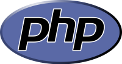
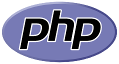
Update with Socrata experience; update bio; improve image quality

diff --git a/index.html b/index.html
@@ -11,146 +11,156 @@
 </head>
 <body>
 
-<!-- Template adapted from http://patterntap.com/code/page-sidebar -->
+  <!-- Template adapted from http://patterntap.com/code/page-sidebar -->
 
-<div class="row">
+  <div class="row">
     <div class="large-12 columns text-center">
-        <h1>Andrew Harrison <small>résumé</small></h1>
-        <hr>
+      <h1>Andrew Harrison <small>résumé</small></h1>
+      <hr>
     </div>
-</div>
+  </div>
 
-<div id="main" class="row">
+  <div id="main" class="row">
     <div id="content" class="large-9 push-3 columns">
-        <h3><a name="about"></a>About Me</h3>
+      <h3><a name="about"></a>About Me</h3>
 
-        <p>I'm <strong>Andrew Harrison</strong>, a software and web developer living as a temporary expatriate in Victoria, BC, Canada.</p>
+      <p>I'm <strong>Andrew Harrison</strong>, a software and web developer in Seattle, WA.</p>
 
-        <p>Over the past 5+ years I have established myself as a web generalist, thanks to my experience working for companies with a variety of environments and pursuits. Most recently my projects have focused on JavaScript (especially Angular and Node, with a CoffeeScript dialect), HTML, CSS, and MongoDB; past jobs and experimentation have led me to work in Java, C#, PHP, Python, Elixir, Go, SQL, Neo4J, RethinkDB, and rudimentary Bash scripts &mdash; all to varying extents. This breadth of exposure has helped me excel at translating patterns for performant, reliable, maintainable software across languages and frameworks. Furthermore, I feel at home in an environment with continuous testing and deployment and consider myself proficient in version control under Git.</p>
+      <p>During the last ten years, I have worked for a variety of companies as a full-stack developer with a front-end focus. Most recently my projects have focused on JavaScript (using React/Redux, as well as Babel and Webpack) and Ruby (usually &mdash; but not always &mdash; Rails); past jobs and experimentation have led me to work in Java, PHP, Elixir, and several other languages. This breadth of exposure has helped me excel at translating patterns for performant, reliable, maintainable software across languages and frameworks. Furthermore, I feel at home in an environment with continuous testing and deployment and consider myself proficient in version control under Git.</p>
 
-        <p>In addition to my technical abilities I am known for my exceptional communication skills, diligent attention to detail, and willingness to be a teacher or leader. I maintain a deep commitment to professional growth, constantly reading up on advances and issues in programming as well as engaging in hands-on experimentation.</p>
+      <p>In addition to my technical abilities I am known for my exceptional communication skills, diligent attention to detail, and willingness to be a teacher or leader. I maintain a deep commitment to professional growth, constantly reading up on advances and issues in programming as well as engaging in hands-on experimentation.</p>
 
-        <p>One of my top career goals at present is to work in a position that directly contributes to social good. Knowing that my work is improving people's quality of life is a strong motivator for me, so I'm seeking out potential employers that might include charitable foundations, NGOs, and organizations working to advance the state of human health, education, sustainability, community development, and civic activism.</p>
+      <p>One of my top career goals at present is to work in a position that directly contributes to social good. Knowing that my work is improving quality of life is a strong motivator for me, so I'm seeking out potential employers that might include charitable foundations, NGOs, and organizations working to advance the state of human health, education, sustainability, community development, and civic activism.</p>
 
-        <p>I'm also interested in working remotely. This isn't just out of convenience: I am a strong proponent of asynchronous workflows, a fairly aggressive practitioner of Inbox Zero, and a constant presence in various chat systems. However, I am very likely to be leaving Victoria by the end of Summer 2015, so relocation is an option for the right position and the right city (n.b. I am a US citizen).</p>
+      <p>I'm also interested in working remotely. This isn't just out of convenience: I am a strong proponent of asynchronous workflows, a fairly aggressive practitioner of Inbox Zero, and a devout believer in documented decisions. While relocation is not an option, I am amenable to periodic travel in conjunction with remote positions.</p>
 
-        <h3><a name="work"></a>Work History</h3>
+      <h3><a name="work"></a>Work History</h3>
 
-        <p><em>I have worked a few short-term jobs between longer stints, but I omit them here for the sake of brevity. I'll be glad to describe my minor roles during a phone call or by email if necessary.</em></p>
+      <p><em>I have worked a few short-term jobs between longer stints, but I omit them here for the sake of brevity. I'll be glad to describe my minor roles during a phone call or by email if necessary.</em></p>
 
[2 lines of base64/hex data omitted]
 
-        <div class="panel">
-            <img src="img/node.png" alt="Node" class="tech-logo">
-            <img src="img/angular.png" alt="Angular" class="tech-logo">
-            <img src="img/html5.png" alt="HTML5" class="tech-logo">
-            <img src="img/coffee.png" alt="CoffeeScript" class="tech-logo">
-            <img src="img/mongo.png" alt="MongoDB" class="tech-logo">
-            <img src="img/git.png" alt="Git" class="tech-logo">
-        </div>
+      <div class="panel">
+        <img src="img/rails.png" alt="Ruby on Rails" class="tech-logo">
+        <img src="img/react.png" alt="React" class="tech-logo">
+        <img src="img/html5.png" alt="HTML5" class="tech-logo">
+        <img src="img/postgresql.png" alt="PostgreSQL" class="tech-logo">
+        <img src="img/git.png" alt="Git" class="tech-logo">
+      </div>
 
-        <ul>
-            <li>Maintained and enhanced a customer-facing site, an admin interface, an internal API layer, and auxiliary tooling (constituting the bulk of the stack at Moveline).</li>
-            <li>Developed a system to streamline the import of paid leads into the customer database and automated related aspects of the sales workflow.</li>
-            <li>Introduced live metrics tracking for the API layer in order to facilitate the diagnosis of service issues.</li>
-            <li>Fulfilled roles related to internal team administration, training, and recruiting.</li>
-        </ul>
+      <ul>
+        <li>Maintained and enhanced a white-labelled data-sharing platform for government customers.</li>
+        <li>Served as lead engineer for several projects, including feature deprecations and rewrites.</li>
+        <li>Authored the company's first written release process, enabling the primary customer-facing service to be released weekly instead of only a few times per year.</li>
+        <li>Led a working group to address cross-team pain points within the platform engineering division.</li>
+        <li>Mentored junior engineers and supported a team during manager absence.</li>
+      </ul>
 
[2 lines of base64/hex data omitted]
 
-        <div class="panel">
-            <img src="img/java.png" alt="Java" class="tech-logo">
-            <img src="img/html5.png" alt="HTML5" class="tech-logo">
-            <img src="img/js.png" alt="JavaScript" class="tech-logo">
-            <img src="img/postgresql.png" alt="PostgreSQL" class="tech-logo">
-            <img src="img/git.png" alt="Git" class="tech-logo">
-        </div>
+      <div class="panel">
+        <img src="img/node.png" alt="Node" class="tech-logo">
+        <img src="img/angular.png" alt="Angular" class="tech-logo">
+        <img src="img/html5.png" alt="HTML5" class="tech-logo">
+        <img src="img/coffee.png" alt="CoffeeScript" class="tech-logo">
+        <img src="img/mongo.png" alt="MongoDB" class="tech-logo">
+        <img src="img/git.png" alt="Git" class="tech-logo">
+      </div>
 
-        <ul>
-            <li>Designed and implemented the company's first toolset for text classification.</li>
-            <li>Designed and spearheaded the development of a common infrastructure for secure web applications covering transport layer security, encrypted data storage, authentication and authorization mechanisms, and mitigations against common vulnerabilities such as SQL injection, cross-site scripting, and cross-site request forgery.</li>
-            <li>Supported the development of a health informatics application built atop the aforementioned infrastructure, intended to be deployed to a small cadre of partner institutions.</li>
-        </ul>
+      <ul>
+        <li>Maintained and enhanced a customer-facing site, an admin interface, an internal API layer, and auxiliary tooling (constituting the bulk of the stack at Moveline).</li>
+        <li>Developed a system to streamline the import of paid leads into the customer database and automated related aspects of the sales workflow.</li>
+        <li>Introduced live metrics tracking for the API layer in order to facilitate the diagnosis of service issues.</li>
+        <li>Fulfilled roles related to internal team administration, training, and recruiting.</li>
+      </ul>
 
[2 lines of base64/hex data omitted]
 
-        <div class="panel">
-            <img src="img/php.png" alt="PHP" class="tech-logo">
-            <img src="img/html5.png" alt="HTML5" class="tech-logo">
-            <img src="img/js.png" alt="JavaScript" class="tech-logo">
-            <img src="img/mysql.png" alt="MySQL" class="tech-logo">
-            <img src="img/git.png" alt="Git" class="tech-logo">
-        </div>
+      <div class="panel">
+        <img src="img/java.png" alt="Java" class="tech-logo">
+        <img src="img/html5.png" alt="HTML5" class="tech-logo">
+        <img src="img/js.png" alt="JavaScript" class="tech-logo">
+        <img src="img/postgresql.png" alt="PostgreSQL" class="tech-logo">
+        <img src="img/git.png" alt="Git" class="tech-logo">
+      </div>
 
-        <ul>
-            <li>Developed components of an online education platform for post-secondary students, including a custom social network, grade history visualizations, and a (prototype) recommender system.</li>
-            <li>Wrote custom scripts to parse university websites and gather course schedule data.</li>
-            <li>Led initiatives to update legacy code and improve documentation.</li>
-        </ul>
+      <ul>
+        <li>Designed and implemented the company's first toolset for text classification.</li>
+        <li>Designed and spearheaded the development of a common infrastructure for secure web applications covering transport layer security, encrypted data storage, authentication and authorization mechanisms, and mitigations against common vulnerabilities such as SQL injection, cross-site scripting, and cross-site request forgery.</li>
+        <li>Supported the development of a health informatics application built atop the aforementioned infrastructure, intended to be deployed to a small cadre of partner institutions.</li>
+      </ul>
 
[2 lines of base64/hex data omitted]
 
-        <div class="panel">
-            <img src="img/dotnet.png" alt=".NET (C#)" class="tech-logo">
-            <img src="img/js.png" alt="JavaScript" class="tech-logo">
-            <img src="img/mysql.png" alt="MySQL" class="tech-logo">
-            <img src="img/svn.png" alt="Subversion" class="tech-logo">
-        </div>
+      <div class="panel">
+        <img src="img/php.png" alt="PHP" class="tech-logo">
+        <img src="img/html5.png" alt="HTML5" class="tech-logo">
+        <img src="img/js.png" alt="JavaScript" class="tech-logo">
+        <img src="img/mysql.png" alt="MySQL" class="tech-logo">
+        <img src="img/git.png" alt="Git" class="tech-logo">
+      </div>
 
-        <ul>
-            <li>Developed components for a comprehensive custom sales solution for a partner company.</li>
-            <li>Maintained existing e-commerce websites.</li>
-            <li>Began development of a multi-company personnel and finance management system from scratch.</li>
-        </ul>
+      <ul>
+        <li>Developed components of an online education platform for post-secondary students, including a custom social network, grade history visualizations, and a (prototype) recommender system.</li>
+        <li>Wrote custom scripts to parse university websites and gather course schedule data.</li>
+        <li>Led initiatives to update legacy code and improve documentation.</li>
+      </ul>
 
-        <h3><a name="personal"></a>Personal Projects</h3>
[1 lines of base64/hex data omitted]
 
-        <p><em>I'm in the process of making my personal projects more readily consumable. Check back later for further details.</em></p>
+      <div class="panel">
+        <img src="img/dotnet.png" alt=".NET (C#)" class="tech-logo">
+        <img src="img/js.png" alt="JavaScript" class="tech-logo">
+        <img src="img/mysql.png" alt="MySQL" class="tech-logo">
+        <img src="img/svn.png" alt="Subversion" class="tech-logo">
+      </div>
 
[1 lines of base64/hex data omitted]
+      <ul>
+        <li>Developed components for a comprehensive custom sales solution for a partner company.</li>
+        <li>Maintained existing e-commerce websites.</li>
+        <li>Began development of a multi-company personnel and finance management system from scratch.</li>
+      </ul>
 
-        <p>MI5 is a web-based clone of the board game <a href="http://boardgamegeek.com/boardgame/438/scotland-yard">Scotland Yard</a>. Apart from my enjoyment of the game itself, my motivation for this project was to practice working with some libraries that I was already using (Dropwizard, Google Guice, jQuery) and to gain familiarity with some new libraries (Neo4J, Atmosphere, Google Maps, D3). Although there is still significant UI work to be done &ndash; particularly the routes between points, of which there are many, each to be drawn manually onto a map of a city known for its winding streets! &ndash; the current codebase encompasses a fully functional API, push notifications, and game logic governed by analysis of the backing graph database.</p>
+      <h3><a name="related"></a>Related Interests</h3>
 
-        <h5>Other projects</h5>
+      <p>In addition to my day job, I have also recently begun to volunteer with <a href="https://adadevelopersacademy.org" rel="nofollow">Ada Developers Academy</a>, a non-profit that provides tuition-free career training in software development to women and non-binary people.</p>
 
-        <p>As part of my personal commitment to professional development I have studied the basics of web security, working through the Breaker 101 series led by Cody Brocious as well as part of the Matasano crypto challenges. There's no code to show for these efforts, however.</p>
+      <h3><a name="education"></a>Education</h3>
 
-        <h3><a name="education"></a>Education</h3>
+      <h5>Rice University <small>August 2003 &mdash; May 2007</small></h5>
 
-        <h5>Rice University <small>August 2003 &mdash; May 2007</small></h5>
+      <p>During university I earned a <strong>B.A. in Linguistics</strong>, with an emphasis in bilingualism and secondary language acquisition.</p>
 
-        <p>During university I earned a <strong>B.A. in Linguistics</strong>, with an emphasis in bilingualism and secondary language acquisition.</p>
+      <p>My career in coding owes a lot to the Intro to Computer Science course that I took, oddly enough, for fun. I enjoyed the first semester of the course so much that I volunteered as a teaching assistant for it while taking the second half in the following semester. I don't doubt that my linguistics courses have helped me write better code, though &mdash; ask me how!</p>
 
-        <p>My career in coding owes a lot to the Intro to Computer Science course that I took, oddly enough, for fun. I enjoyed the first semester of the course so much that I volunteered as a teaching assistant for it while taking the second half in the following semester. I don't doubt that my linguistics courses have helped me write better code, though &mdash; ask me how!</p>
+      <h3><a name="contact"></a>Contact</h3>
 
-        <h3><a name="contact"></a>Contact</h3>
+      <p>The best way to reach me is by email at <a href="mailto:andrew.m.harrison@gmail.com"><kbd>andrew.m.harrison@gmail.com</kbd></a>.</p>
 
-        <p>The best way to reach me is by email at <a href="mailto:andrew.m.harrison@gmail.com"><kbd>andrew.m.harrison@gmail.com</kbd></a>.</p>
-
-        <p>References available upon request. No recruiters, please.</p>
+      <p>References available upon request. No recruiters, please.</p>
     </div>
 
     <div id="sidebar" class="large-3 pull-9 columns">
-        <img src="img/portrait.png" alt="Portrait of Andrew Harrison" id="portrait">
-        <div id="side-nav-container" class="row">
-            <ul class="side-nav">
-                <li><a href="#about">About Me</a></li>
-                <li><a href="#work">Work History</a></li>
-                <li><a href="#personal">Personal Projects</a></li>
-                <li><a href="#education">Education</a></li>
-                <li><a href="#contact">Contact</a></li>
-            </ul>
-        </div>
+      <img src="img/portrait.png" alt="Portrait of Andrew Harrison" id="portrait">
+      <div id="side-nav-container" class="row">
+        <ul class="side-nav">
+          <li><a href="#about">About Me</a></li>
+          <li><a href="#work">Work History</a></li>
+          <li><a href="#related">Related Interests</a></li>
+          <li><a href="#education">Education</a></li>
+          <li><a href="#contact">Contact</a></li>
+        </ul>
+      </div>
     </div>
-</div>
+  </div>
 
-<footer class="row">
+  <footer class="row">
     <div class="large-12 columns text-center">
-        <hr />
-        <p><em>Last revision: January 29, 2015</em></p>
+      <hr />
+      <p><em>Last revision: 2017-06-06</em></p>
     </div>
-</footer>
+  </footer>
 
-<script src="js/jquery-2.0.3.min.js"></script>
-<script src="js/fixto.min.js"></script>
-<script>$('#side-nav-container').fixTo('#main');</script>
+  <script src="js/jquery-2.0.3.min.js"></script>
+  <script src="js/fixto.min.js"></script>
+  <script>$('#side-nav-container').fixTo('#main');</script>
